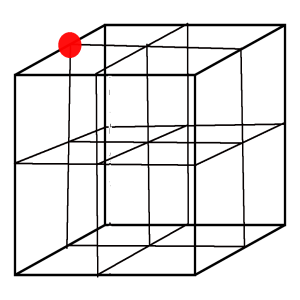
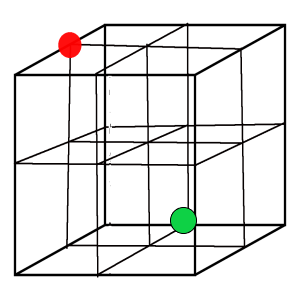
changed a buncha think the final deal

Changed region(s): [[0.57, 0.69, 0.66, 0.78]]

diff --git a/app.js b/app.js
@@ -1105,12 +1105,33 @@ let doors_locked_or_open = [1, 0, 0, 1, 1, 1, 1, 1, 1, 1, 1, 1, 1, 0, 0, 0, 0, 1
 //var info = document.createElement('h1');
 var info_2 = document.createElement('h1');
 
+var info_3 = document.createElement('h1');
+info_3.innerHTML = "GOAL ROOM: 212";
+info_3.style.color = '#5feb34';
+info_3.style.marginTop = '30px';
+info_3.style.fontSize = '30px';
+
+//display whether or not have obtained keys
+var info_key_AA = document.createElement('h2');
+var info_key_BB = document.createElement('h2');
+var info_key_CC = document.createElement('h2');
+var info_key_DD = document.createElement('h2');
+
+
 var cube_image = document.createElement('img');
 
 //messing 
 let vh = window.innerHeight;
 console.log(vh);
-console.log("blah");
+
+//to not display any transition door room message on the first draw
+var first_time = true;
+
+//to save previous room and door info to use in transition message
+var previous_maze_num = -1;
+var previous_door_num = -1;
+
+var string_rep_of_door_nums = ["UP", "DOWN", "LEFT", "RIGHT", "OUT", "IN"];
 
 //console.log(maze_arrays);
 //there really doesn't seem to be any reason to put the maze into a 2d array instead of a 1d array 
@@ -1121,6 +1142,14 @@ function draw_maze(){
     //just printing
     //should add html to represent on page...
     console.log("door_num: " + door_num + " current_maze: " + current_maze);
+    if(first_time){
+        first_time = false;
+    }
+    else{
+        //alert("door_num: " + door_num + " current_maze: " + current_maze);
+        alert("going through " + string_rep_of_door_nums[previous_door_num] + " door from room " + Number(previous_maze_num).toString(3).padStart(3, '0') + " to room " + Number(current_maze).toString(3).padStart(3, '0'));
+    }
+    
     /*
     //var info = document.createElement('h1');
     info.innerHTML = "door_num: " + door_num + " current_maze: " + current_maze;
@@ -1150,6 +1179,55 @@ function draw_maze(){
     cube_image.style.marginLeft = '30px';
     document.body.appendChild(cube_image);
 
+    document.body.appendChild(info_3);
+
+    //display whether or not have obtained keys
+    if(doors_locked_or_open[15] == 0){
+        info_key_AA.innerHTML = "KEY A: DON'T HAVE";
+    }
+    else{
+        info_key_AA.innerHTML = "KEY A: GOT IT";
+    }
+    if(doors_locked_or_open[1] == 0){
+        info_key_BB.innerHTML = "KEY B: DON'T HAVE";
+    }
+    else{
+        info_key_BB.innerHTML = "KEY B: GOT IT";
+    }
+    if(doors_locked_or_open[13] == 0){
+        info_key_CC.innerHTML = "KEY C: DON'T HAVE";
+    }
+    else{
+        info_key_CC.innerHTML = "KEY C: GOT IT";
+    }
+    if(doors_locked_or_open[18] == 0){
+        info_key_DD.innerHTML = "KEY D: DON'T HAVE";
+    }
+    else{
+        info_key_DD.innerHTML = "KEY D: GOT IT";
+    }
+
+    info_key_AA.style.color = '#ebc034';
+    info_key_AA.style.marginTop = '30px';
+    info_key_AA.style.fontSize = '30px';
+    document.body.appendChild(info_key_AA);
+
+    info_key_BB.style.color = '#ebc034';
+    info_key_BB.style.fontSize = '30px';
+    document.body.appendChild(info_key_BB);
+
+    info_key_CC.style.color = '#ebc034';
+    info_key_CC.style.fontSize = '30px';
+    document.body.appendChild(info_key_CC);
+
+    info_key_DD.style.color = '#ebc034';
+    info_key_DD.style.fontSize = '30px';
+    document.body.appendChild(info_key_DD);
+
+
+
+
+
 
     squares.forEach(square => {
     
@@ -1175,7 +1253,9 @@ function draw_maze(){
     }
     //if cell value is one of the possible doors (connecting exit points)
     else if(cell_value == 0 || cell_value == 1 || cell_value == 2 || cell_value == 3 || cell_value == 4 || cell_value == 5){
-        square.classList.add('backGroundColorFinish'); //just use Finish for the color for all of the doors
+        //should if door is one of the doors that require a key and assign color per door with corresponding key color
+        //nah not now at least
+        square.classList.add('backGroundColorFinish'); //just use Finish for the color of all the non key requiring doors
         
         //logic for updating door_num value dependent on where the player exits previous room and is entering current room
         if(cell_value == door_num){
@@ -1187,7 +1267,6 @@ function draw_maze(){
                 console.log("current_square: " + current_square);
                 console.log("start_square: " + start_square);
                 squares[start_square].classList.add('backGroundColorCurrent');
-                
             }
             //If it is a down wall, then the cell above should be a valid starting point
             else if(cell_value == 1){
@@ -1234,6 +1313,7 @@ function draw_maze(){
         
         goal_squares.push(counter);
     }
+    //maybe should do a diff color for each key and then that door can be represented by the same color
     else if(cell_value == 66){ //a key
         square.classList.add('backGroundColorKey');
     }
@@ -1367,10 +1447,14 @@ function determine_next_room_and_door(current_room, exit_door){
     //determine entry door for next room from exit door of current room
     //to oppositize (up <-> down, left <-> right, out <-> in): if door index is odd, subtract one. else, add one
     if((maze_arrays[current_maze][Math.floor(exit_door / dim_square_maze)][exit_door % dim_square_maze] % 2) == 1){ 
-        door_num = maze_arrays[current_maze][Math.floor(exit_door / dim_square_maze)][exit_door % dim_square_maze] - 1;
+        previous_door_num = maze_arrays[current_maze][Math.floor(exit_door / dim_square_maze)][exit_door % dim_square_maze]; 
+        //door_num = maze_arrays[current_maze][Math.floor(exit_door / dim_square_maze)][exit_door % dim_square_maze] - 1;
+        door_num = previous_door_num - 1;
     }
     else{
-        door_num = maze_arrays[current_maze][Math.floor(exit_door / dim_square_maze)][exit_door % dim_square_maze] + 1;
+        previous_door_num = maze_arrays[current_maze][Math.floor(exit_door / dim_square_maze)][exit_door % dim_square_maze];
+        //door_num = maze_arrays[current_maze][Math.floor(exit_door / dim_square_maze)][exit_door % dim_square_maze] + 1;
+        door_num = previous_door_num + 1;
     }
 
     //determine next maze (room)
@@ -2165,8 +2249,9 @@ function walk_maze(){
         //no key needed
         else{ 
             //need to have different messages as you go room to room, not just you solved it until the end
-            console.log("you solved it!");
-            alert("you solved it!");
+            //can do the customized message at the beginning of the draw_maze function
+            //console.log("you solved it!");
+            //alert("you solved it!");
             //start over
             counter = 0;
 
@@ -2179,7 +2264,7 @@ function walk_maze(){
                 square.classList.remove('backGroundColorKey');
             });
 
-            //current_square
+            previous_maze_num = current_maze;
             determine_next_room_and_door(current_maze, current_square);
 
             //NEED TO DISPLAY ON SCREEN INSTEAD WITH CUBE REPRESENTATION MAP PERHAPS...
